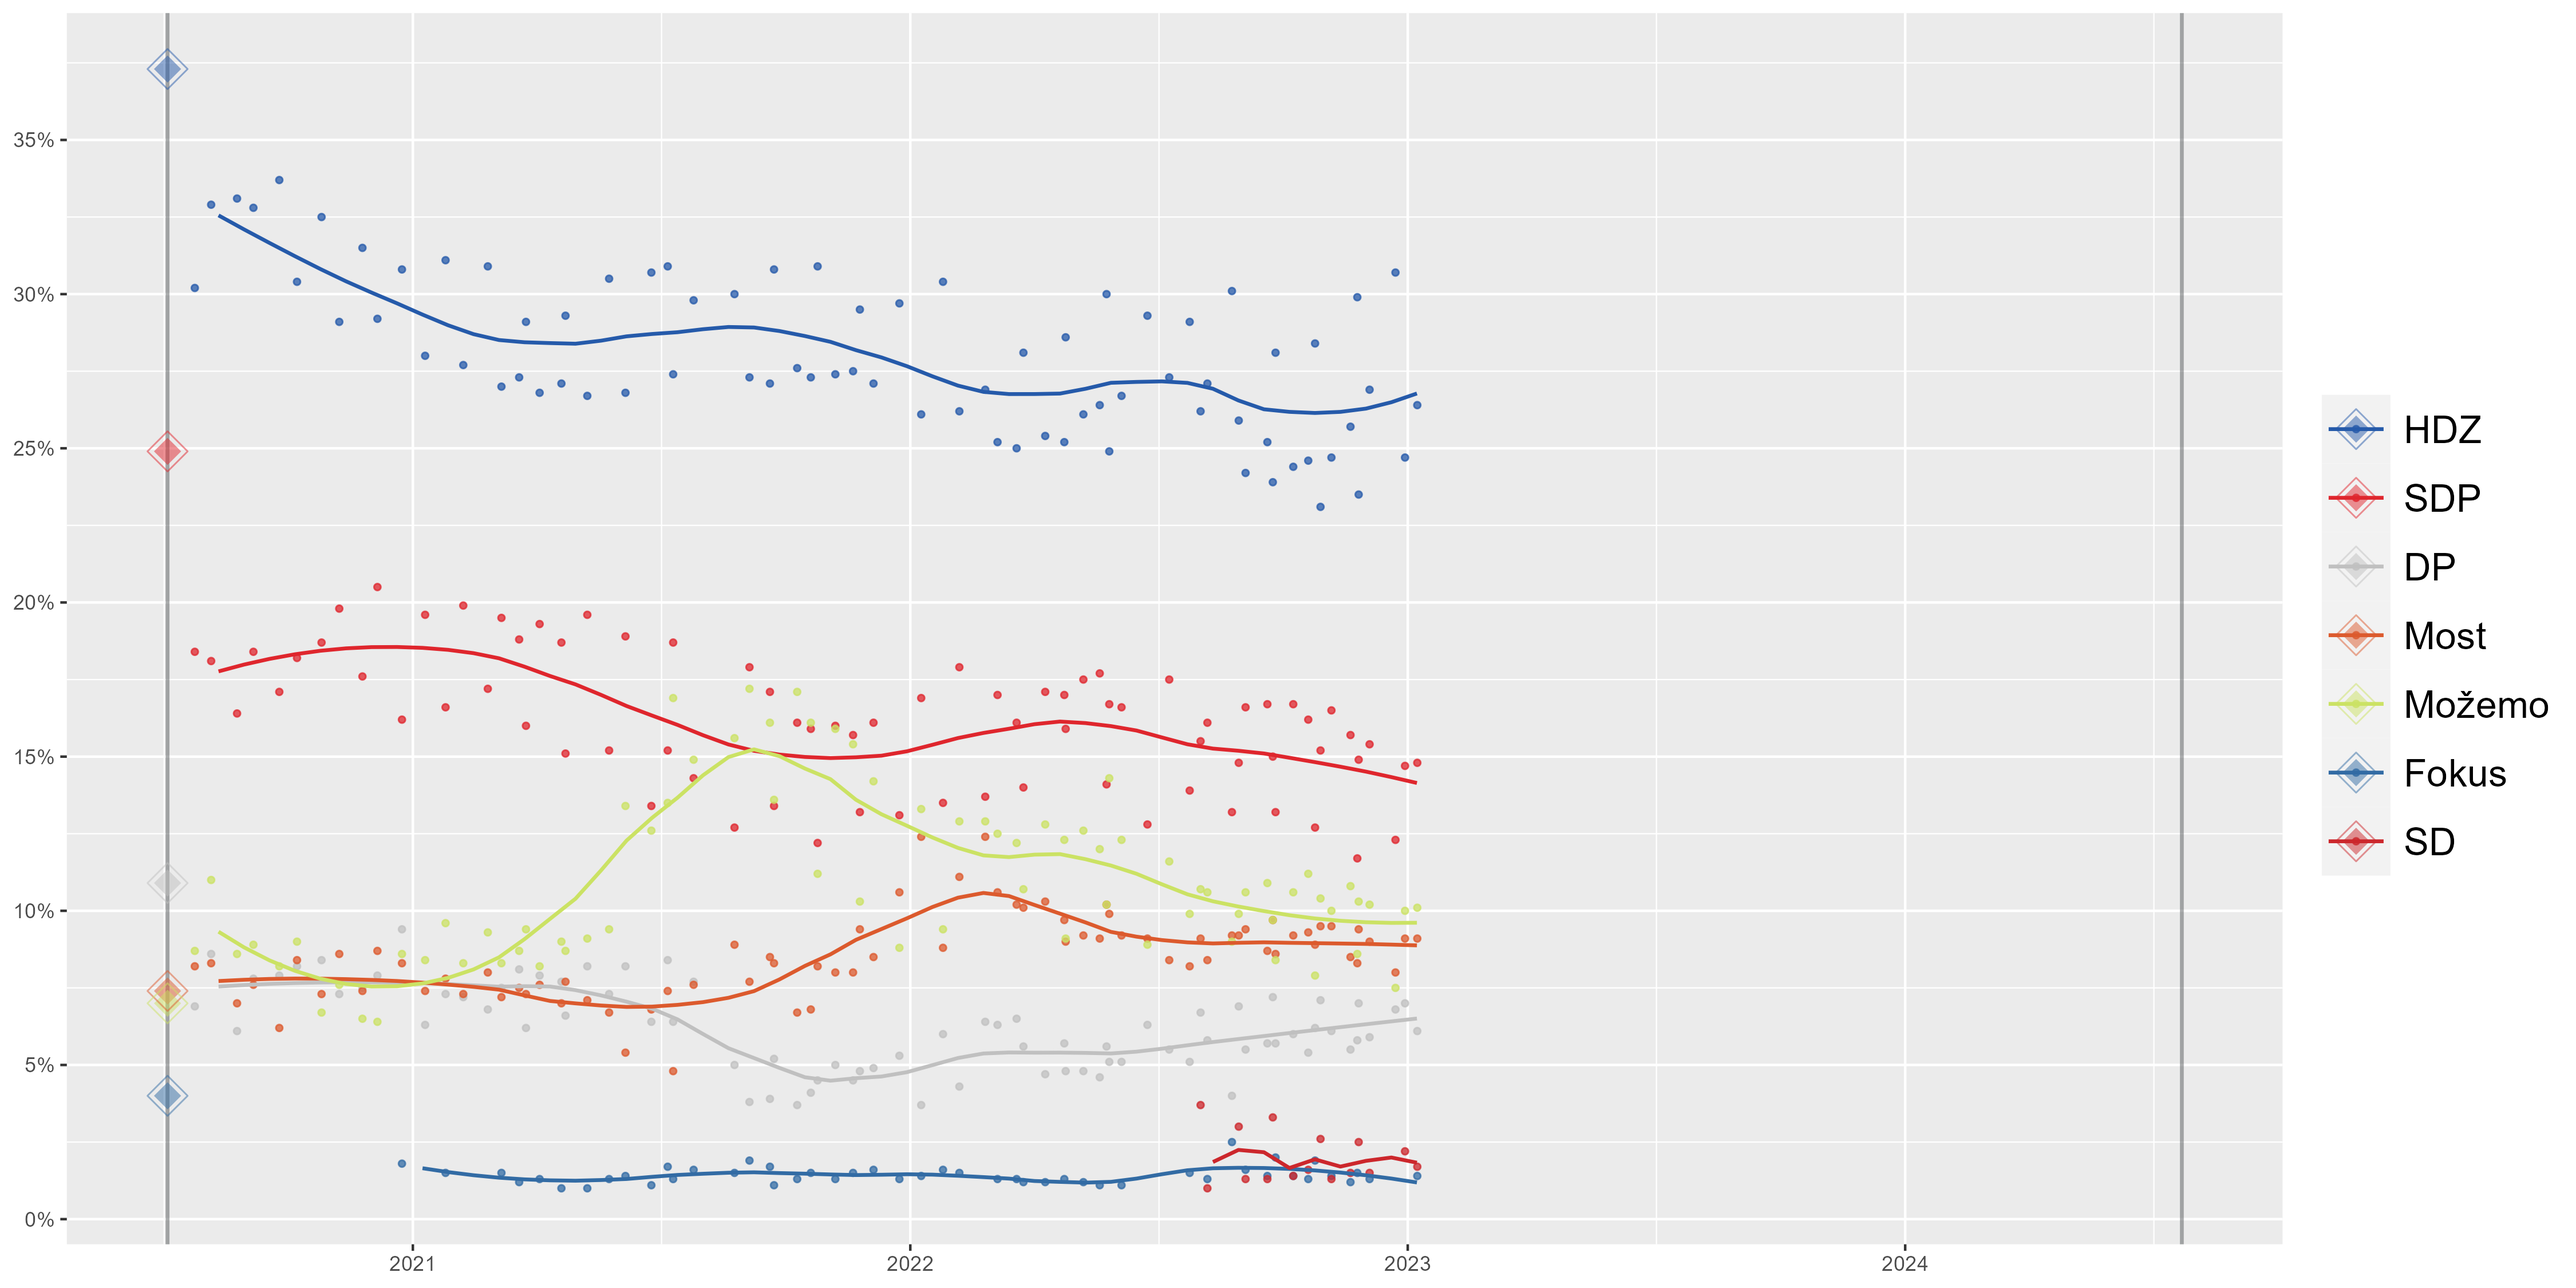
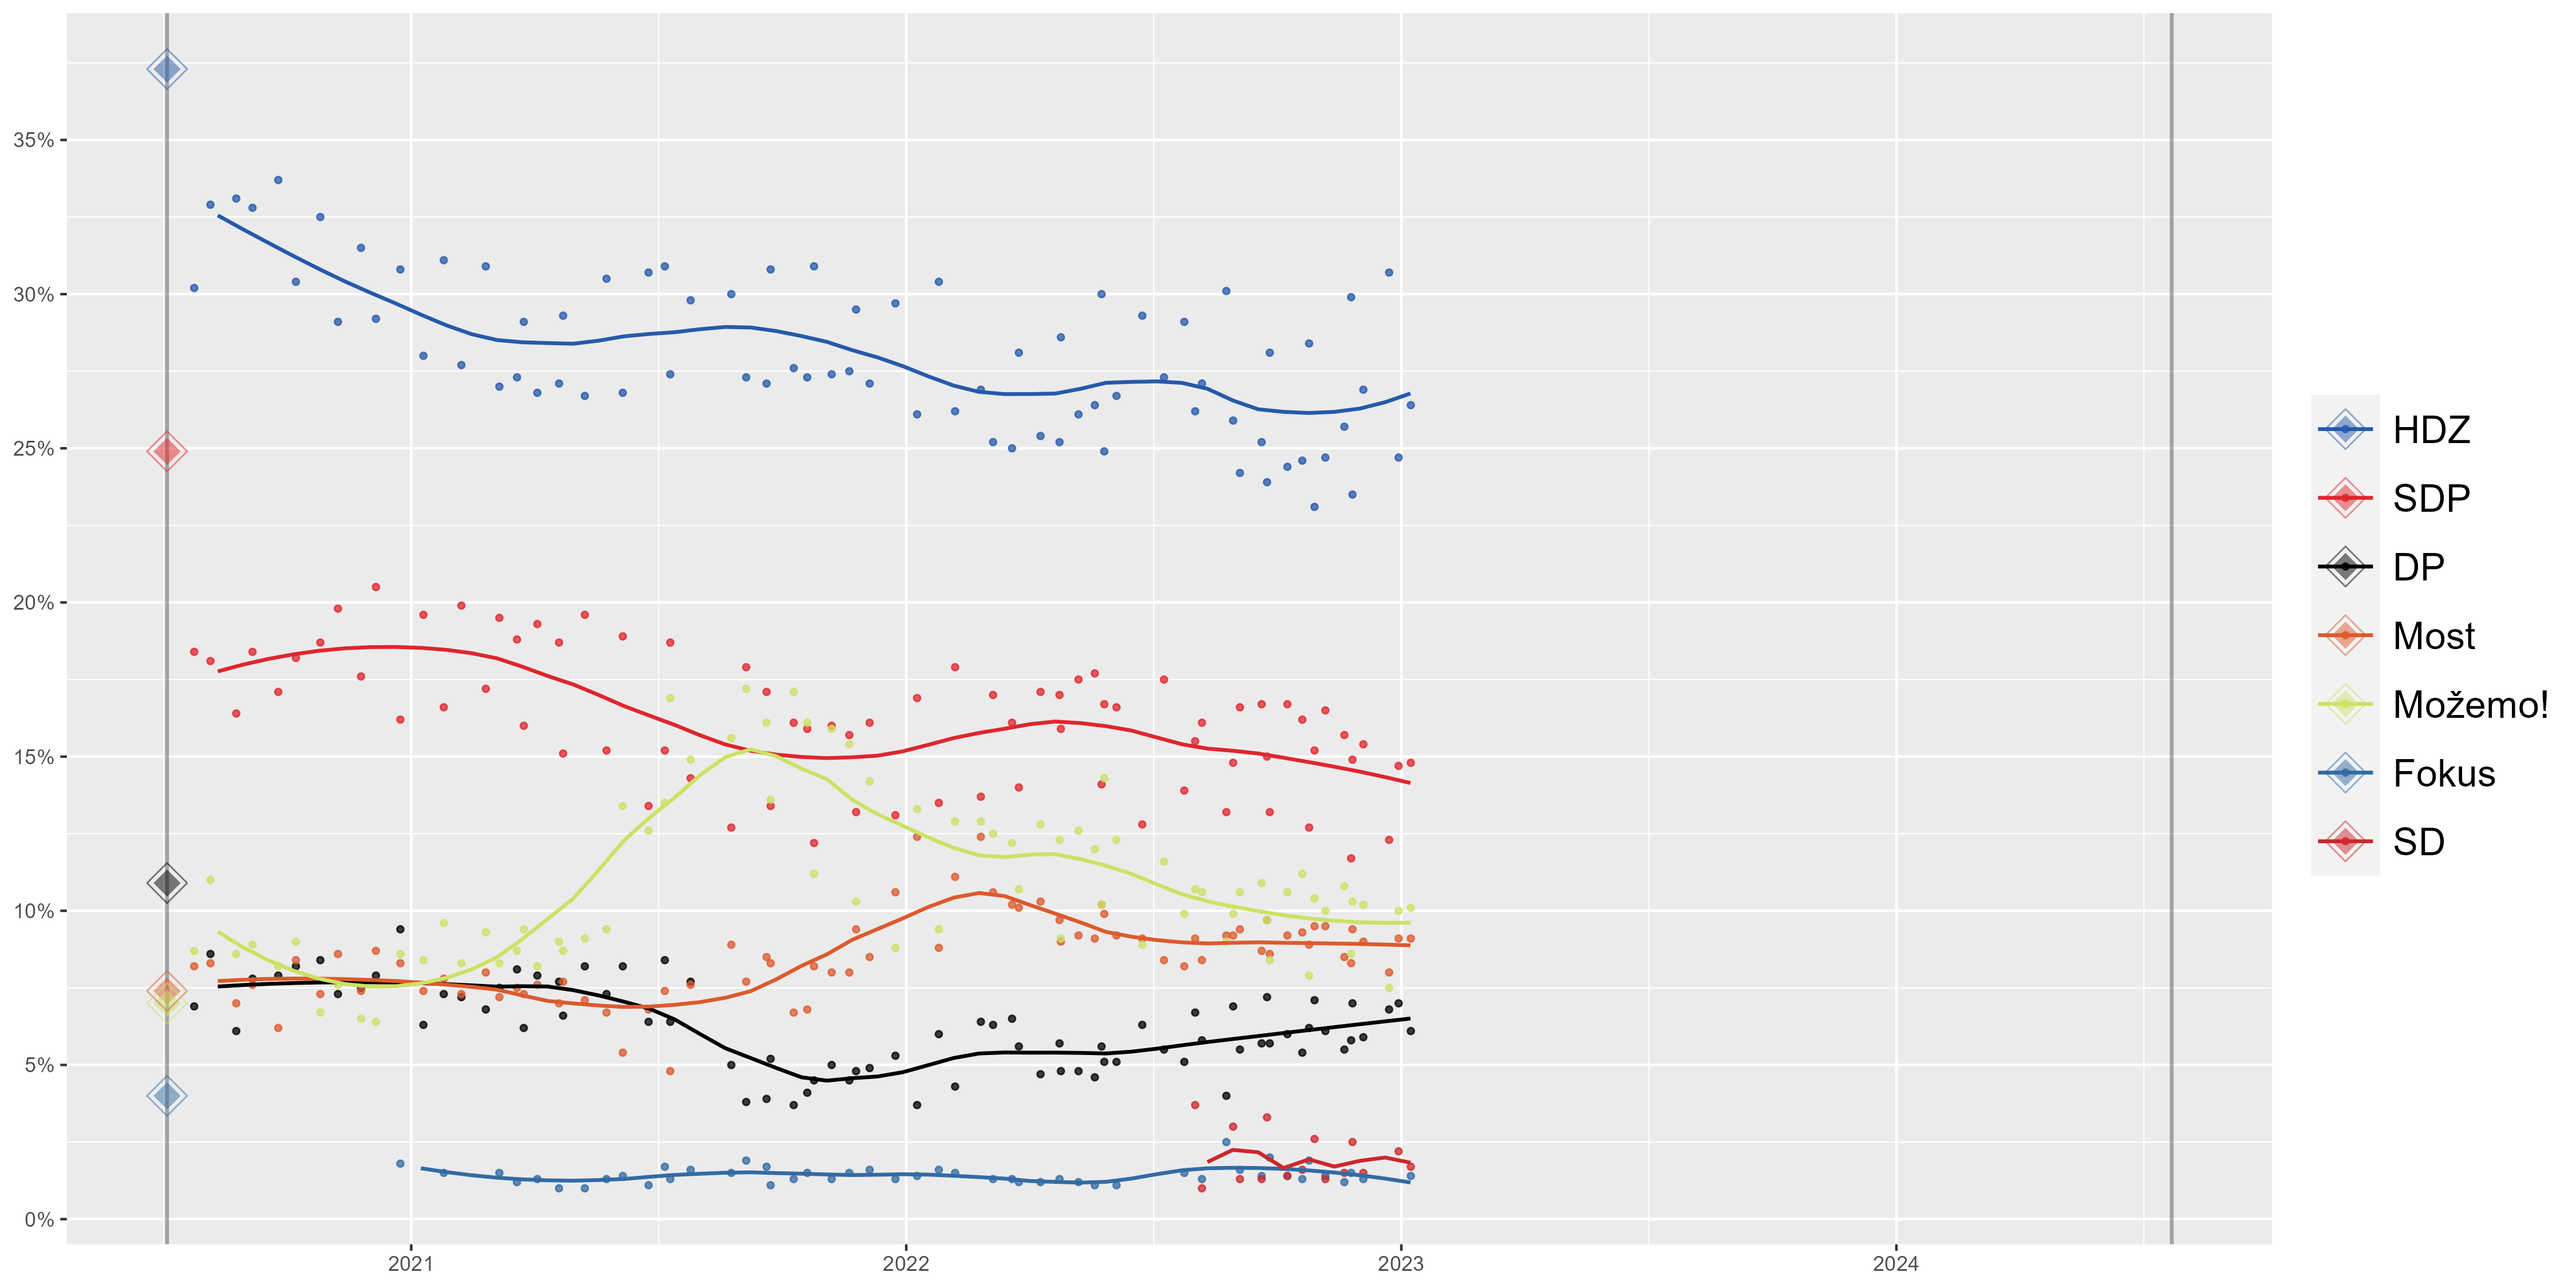
Updated Format

diff --git a/Croatia_Elections/data.py b/Croatia_Elections/data.py
@@ -14,8 +14,8 @@ df=pd.read_html(str(tables))
 
 df0=pd.DataFrame(df[1])
 data22 = df0.drop(["Polling firm","Votes","Lead", "Undecided", "BM 365","Centar","RF", "NS R", "HNS", "KH","IDS","HSS","HSU","HS", "Others"], axis=1)
-headers = ['Date', 'HDZ', 'SDP', 'DP', 'Most', 'Možemo', 'Fokus', 'SD']
-parties = ['HDZ', 'SDP', 'DP', 'Most', 'Možemo', 'Fokus', 'SD']
+headers = ['Date', 'HDZ', 'SDP', 'DP', 'Most', 'Možemo!', 'Fokus', 'SD']
+parties = ['HDZ', 'SDP', 'DP', 'Most', 'Možemo!', 'Fokus', 'SD']
 data22.columns = headers
 
 data22 = data22[data22['HDZ'] != data22['Fokus']]
@@ -45,8 +45,8 @@ data22.to_csv('Croatia_Elections/poll.csv', index=False)
 
 df0=pd.DataFrame(df[1])
 data22 = df0.drop(["Polling firm","Votes","Lead", "Undecided"], axis=1)
-headers = ['Date', 'HDZ', 'SDP', 'DP', 'Most', 'Možemo', 'o1', 'o2', 'o3', 'o4', 'o5', 'o6', 'o7', 'o8', 'o9', 'o10', 'o11', 'o12', 'o13', 'o14']
-parties = ['HDZ', 'SDP', 'DP', 'Most', 'Možemo', 'o1', 'o2', 'o3', 'o4', 'o5', 'o6', 'o7', 'o8', 'o9', 'o10', 'o11', 'o12', 'o13', 'o14']
+headers = ['Date', 'HDZ', 'SDP', 'DP', 'Most', 'Možemo!', 'o1', 'o2', 'o3', 'o4', 'o5', 'o6', 'o7', 'o8', 'o9', 'o10', 'o11', 'o12', 'o13', 'o14']
+parties = ['HDZ', 'SDP', 'DP', 'Most', 'Možemo!', 'o1', 'o2', 'o3', 'o4', 'o5', 'o6', 'o7', 'o8', 'o9', 'o10', 'o11', 'o12', 'o13', 'o14']
 Other = ['o1', 'o2', 'o3', 'o4', 'o5', 'o6', 'o7', 'o8', 'o9', 'o10', 'o11', 'o12', 'o13', 'o14']
 
 data22.columns = headers
@@ -75,11 +75,11 @@ for z in parties:
 data22[parties] = data22[parties].astype(float)
 data22['o2']=np.where(data22['o2'] == data22['o3'], 0, data22['o2'])
 data22['o3']=np.where(data22['o3'] == data22['o4'], 0, data22['o3'])
-data22['o1']=np.where(data22['Možemo'] == data22['o1'], 0, data22['o1'])
+data22['o1']=np.where(data22['Možemo!'] == data22['o1'], 0, data22['o1'])
 data22['Other'] = data22[Other].sum(axis=1)
 
 data22 = data22.drop(Other, axis=1)
-parties = ['HDZ', 'SDP', 'DP', 'Most', 'Možemo', 'Other']
+parties = ['HDZ', 'SDP', 'DP', 'Most', 'Možemo!', 'Other']
 
 data22[parties] = data22[parties].div(data22[parties].sum(axis=1), axis=0)
 
